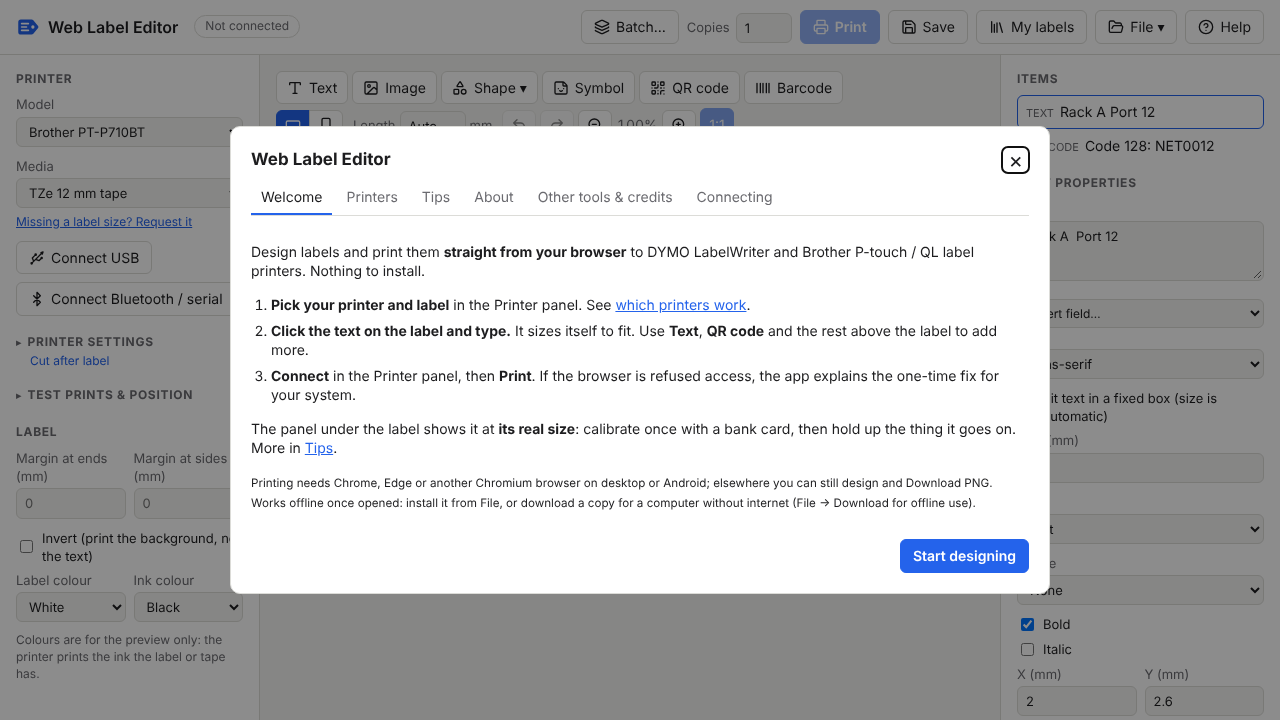
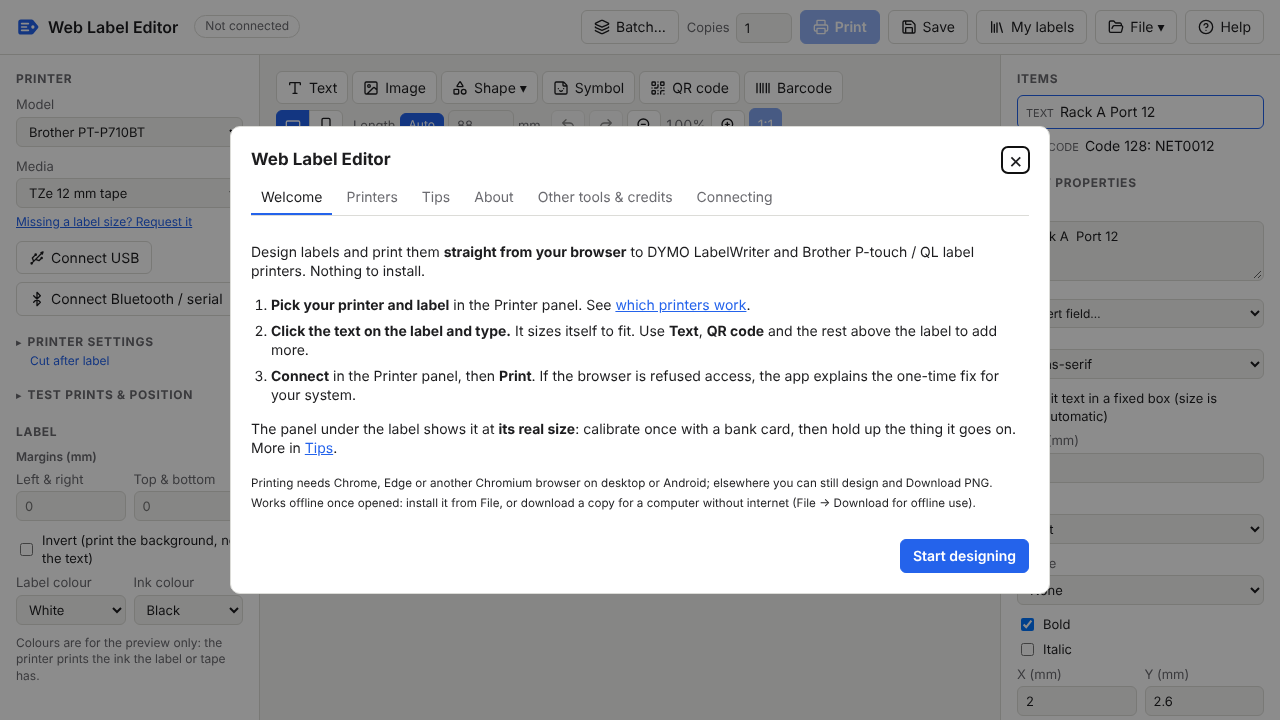
Auto toggles: length and item size, on the label and in the toolbar
- An Auto button beside the toolbar's Length box, and an "Auto length"
  chip by the label's end grip on rolls and tape.
- An "Auto size" chip by the selected item: text fits its box; a QR code,
  barcode, symbol or image fills the safe area across the label, centred,
  and follows it when the tape or margins change (items after it on a
  roll move along). Resizing by hand turns it off.
- Margins are labelled as seen (Left & right, Top & bottom); on Auto
  length the content keeps at least the margin from the start too, so
  the label grows at both ends.

Claude-Session: https://claude.ai/code/session_01YQFkThD3TEfZZoGyfdA6sY

diff --git a/src/app.js b/src/app.js
@@ -315,6 +315,11 @@ const printerMargins = (lane) => {
 };
 // The user's own margins (Label → Margins), from the label's edges: at the
 // ends (along the feed) and the sides (across). Saved with the design.
+// The margin boxes as seen: left & right are the ends in landscape, the
+// sides in portrait.
+const marginBoxes = () => (portrait()
+  ? [['margin-lr', 'sidesMm'], ['margin-tb', 'endsMm']]
+  : [['margin-lr', 'endsMm'], ['margin-tb', 'sidesMm']]);
 const userMargins = () => {
   const ends = Math.max(0, Number(design.margins?.endsMm) || 0);
   const sides = Math.max(0, Number(design.margins?.sidesMm) || 0);
@@ -499,10 +504,98 @@ function refresh({ props = false, setup = false } = {}) {
   });
 }
 
+// On Auto length, the content keeps at least the margin from the start:
+// anything closer moves along with the rest, and the label grows to fit
+// (the end gets the same space, see stripLength). Not while dragging, so
+// the other items stay put; it settles when the item is dropped.
+function keepStartMargin() {
+  const ends = userMargins().left;
+  if (!ends || drag || medium().lengthDots || design.length.mode === 'fixed' || !last) return false;
+  const along = last.portrait ? 'y' : 'x';
+  let start = Infinity;
+  last.bounds.forEach((b, i) => {
+    const slot = b && last.slots.find((sl) => sl.lane === last.lanes[i]);
+    if (slot) start = Math.min(start, (along === 'x' ? b.x - slot.ox : b.y - slot.oy) / last.dpmm);
+  });
+  if (!Number.isFinite(start) || start >= ends - 0.05) return false;
+  for (const it of design.items) it[along] = round1(it[along] + ends - start);
+  return true;
+}
+
+// Auto size for QR codes, symbols, images and barcodes (`fit`): filling
+// the safe area across the label, centred, and on a die-cut label no longer
+// than it either; a barcode's bars grow, not their width. Measured from the
+// last render, so it settles in a pass or two.
+const AUTO_SIZED = ['qr', 'icon', 'image', 'barcode'];
+function fitItems() {
+  if (!last || drag) return false;
+  let changed = false;
+  const page = pageSize();
+  const up = portrait();
+  design.items.forEach((it, i) => {
+    if (!it.fit || !AUTO_SIZED.includes(it.type)) return;
+    const b = last.bounds[i];
+    const slot = b && last.slots.find((sl) => sl.lane === last.lanes[i]);
+    if (!slot) return;
+    const mg = itemMargins(laneOf(it));
+    const room = up ? page.w - mg.left - mg.right : page.h - mg.top - mg.bottom;
+    const alongRoom = (up ? page.hFixed : page.wFixed) ? (up ? page.h - mg.top - mg.bottom : page.w - mg.left - mg.right) : Infinity;
+    const across = (up ? b.w : b.h) / last.dpmm;
+    const along = (up ? b.h : b.w) / last.dpmm;
+    let size = across;
+    if (it.type === 'barcode') {
+      const h = Math.max(1, round1(it.height + room - across));
+      if (Math.abs(h - it.height) > 0.2) {
+        size = across + h - it.height;
+        it.height = h;
+        changed = true;
+      }
+    } else {
+      // A QR code's size is an upper bound (it draws the largest whole dots
+      // per module that fit) and a symbol's is exact, so they take the room
+      // as their size; an image scales by its width.
+      const target = Math.min(room, alongRoom);
+      const f = it.type === 'image' ? Math.min(room / across, alongRoom / along) : target / it.size;
+      if (it.type === 'image' ? Math.abs(f - 1) > 0.003 : Math.abs(it.size - target) > 0.05) {
+        if (it.type === 'image') it.w = +(it.w * f).toFixed(2); else it.size = +target.toFixed(2);
+        changed = true;
+        // On a roll, what comes after it moves along with its new length
+        // instead of being covered.
+        if (alongRoom === Infinity) {
+          const end = (up ? b.y - slot.oy + b.h : b.x - slot.ox + b.w) / last.dpmm;
+          const k = up ? 'y' : 'x';
+          design.items.forEach((o, j) => {
+            const ob = last.bounds[j];
+            const os = ob && last.slots.find((sl) => sl.lane === last.lanes[j]);
+            if (o !== it && os && (up ? ob.y - os.oy : ob.x - os.ox) / last.dpmm >= end - 0.5) o[k] = round1(o[k] + along * (f - 1));
+          });
+        }
+        size = across * f;
+      }
+    }
+    // Centred across.
+    const key = up ? 'x' : 'y';
+    const start = (up ? b.x - slot.ox : b.y - slot.oy) / last.dpmm;
+    const want = (up ? mg.left : mg.top) + (room - size) / 2;
+    if (Math.abs(want - start) > 0.2) { it[key] = round1(it[key] + want - start); changed = true; }
+  });
+  return changed;
+}
+
 function draw() {
   const m = model();
   const med = medium();
-  last = renderView(viewDesign(), m, med, { adj: adjust(), onAssetLoad: () => refresh(), laneItems: batchLaneItems() });
+  const render = () => renderView(viewDesign(), m, med, { adj: adjust(), onAssetLoad: () => refresh(), laneItems: batchLaneItems() });
+  last = render();
+  let fitted = false;
+  for (let k = 0; k < 3; k++) {
+    const moved = fitItems();
+    fitted ||= moved;
+    if (!(keepStartMargin() || moved)) break;
+    last = render();
+  }
+  // The side panel shows the new sizes.
+  if (fitted && !drag) queueMicrotask(() => refresh({ props: true }));
   updateDataBar();
   syncFormatBar();
   const { display, dpmm, geo, slots, toDisplay } = last;
@@ -695,17 +788,24 @@ function draw() {
   }
   drawRulers(selBounds, feed);
   placeLaneButtons(scale);
+  placeChips(scale, cssW, cssH, selBounds);
 
   const lenMm = geo.length / dpmm;
   // The Length box in the toolbar (rolls only): Auto, or the fixed length.
   const lenBox = $('len-box');
+  const lenAuto = $('len-auto');
   // Die-cut labels: their own length, shown greyed so the box is always there.
   lenBox.disabled = !!med.lengthDots;
+  lenAuto.disabled = !!med.lengthDots;
+  lenAuto.setAttribute('aria-pressed', String(!med.lengthDots && design.length.mode !== 'fixed'));
+  lenAuto.title = med.lengthDots ? 'Die-cut labels have their own length'
+    : design.length.mode === 'fixed' ? 'Auto: make the label as long as its content (saves tape when the text varies)'
+      : 'Auto is on: the label is as long as its content. Type a length (or drag the label\'s end) for labels that must all match.';
   if (med.lengthDots) {
     lenBox.value = String(round1(lenMm));
     lenBox.title = `Die-cut labels are ${round1(lenMm)} mm long. On a continuous roll or tape, set Auto or a length here.`;
   } else if (document.activeElement !== lenBox) {
-    lenBox.value = design.length.mode === 'fixed' ? String(design.length.mm) : 'Auto';
+    lenBox.value = design.length.mode === 'fixed' ? String(design.length.mm) : String(Math.round(lenMm));
     lenBox.title = design.length.mode === 'fixed'
       ? 'A set length: every label the same, e.g. to match drawer fronts or a batch. Auto makes it as long as the content. '
         + 'You can also drag the label\'s end.'
@@ -927,6 +1027,39 @@ function placeLaneButtons(scale) {
     const s = last.slots[Number(b.dataset.lane)];
     b.style.left = `${canvas.offsetLeft + viewOrigin.x + (s.label.x + s.label.w) * scale - 4}px`;
     b.style.top = `${canvas.offsetTop + viewOrigin.y + s.label.y * scale + 4}px`;
+  }
+}
+
+// Small Auto toggles on the canvas: beside the end grip of a label on a
+// roll (Auto length), and beside the selected text's corner handle (Auto
+// size: the text fits its box).
+function placeChips(scale, cssW, cssH, selBounds) {
+  const canvas = $('canvas');
+  const x0 = canvas.offsetLeft + viewOrigin.x;
+  const y0 = canvas.offsetTop + viewOrigin.y;
+  const len = $('chip-len-auto');
+  len.hidden = !!medium().lengthDots;
+  if (!len.hidden) {
+    const auto = design.length.mode !== 'fixed';
+    len.setAttribute('aria-pressed', String(auto));
+    len.title = auto ? 'Auto length: as long as the content. Drag the label\'s end, or click, to set a length.'
+      : 'Click for Auto length: as long as the content';
+    // Just past the grip: below the right end, or right of the bottom end.
+    len.style.left = `${x0 + (last.portrait ? cssW / 2 - 36 : cssW - 40)}px`;
+    len.style.top = `${y0 + cssH + 8}px`;
+  }
+  const chip = $('chip-text-auto');
+  const item = selected();
+  chip.hidden = !((item?.type === 'text' || AUTO_SIZED.includes(item?.type)) && selBounds && !editing);
+  if (!chip.hidden) {
+    chip.setAttribute('aria-pressed', String(!!item.fit));
+    chip.title = item.type === 'text'
+      ? (item.fit ? 'Auto size: the text is sized to fit its box. Click to keep it at this size instead.'
+        : 'Click for Auto size: the text fills its box, growing or shrinking with it')
+      : (item.fit ? 'Auto size: fills the label\'s safe area across, and follows it when the label or margins change. Click to keep this size.'
+        : 'Click for Auto size: fill the label\'s safe area across, and follow it when the label or margins change');
+    chip.style.left = `${x0 + (selBounds.x + selBounds.w) * scale + 12}px`;
+    chip.style.top = `${y0 + (selBounds.y + selBounds.h) * scale - 8}px`;
   }
 }
 
@@ -1210,7 +1343,7 @@ function buildSetup() {
   buildCustomMedia();
   $('request-label').hidden = !!m.custom || medium().id === 'custom';
 
-  for (const [id, key] of [['margin-ends', 'endsMm'], ['margin-sides', 'sidesMm']]) {
+  for (const [id, key] of marginBoxes()) {
     if (document.activeElement !== $(id)) $(id).value = design.margins?.[key] || '';
   }
   $('invert').checked = !!design.invert;
@@ -3301,6 +3434,8 @@ function onPointerDown(e) {
   const handled = onHandle(e);
   if (handled) {
     undo.checkpoint();
+    // Resizing by hand ends Auto size (a text's box stays fitted).
+    if (handled.type !== 'text') handled.fit = false;
     drag = { item: handled, resize: true };
     $('canvas').setPointerCapture(e.pointerId);
     return;
@@ -3737,11 +3872,31 @@ function wire() {
     disconnect().then(autoConnect);
   };
   $('medium').onchange = (e) => { keepFitting(() => selectMedium(e.target.value)); refresh({ setup: true }); };
-  for (const [id, key] of [['margin-ends', 'endsMm'], ['margin-sides', 'sidesMm']]) {
-    $(id).oninput = (e) => { design.margins = { ...design.margins, [key]: Math.max(0, parseFloat(e.target.value) || 0) }; refresh(); };
+  for (const id of ['margin-lr', 'margin-tb']) {
+    $(id).oninput = (e) => {
+      const key = new Map(marginBoxes()).get(id);
+      design.margins = { ...design.margins, [key]: Math.max(0, parseFloat(e.target.value) || 0) };
+      refresh();
+    };
     $(id).onchange = () => undo.checkpoint();
   }
   $('len-box').onfocus = (e) => e.target.select();
+  $('chip-len-auto').onclick = () => $('len-auto').click();
+  $('chip-text-auto').onclick = () => {
+    const it = selected();
+    if (!it) return;
+    if (it.type === 'text') toggleFit(it, !it.fit);
+    else if (AUTO_SIZED.includes(it.type)) it.fit = !it.fit;
+    else return;
+    undo.checkpoint();
+    refresh({ props: true });
+  };
+  $('len-auto').onclick = () => {
+    if (design.length.mode === 'fixed') design.length.mode = 'auto';
+    else design.length = { ...design.length, mode: 'fixed', mm: Math.round(last.geo.length / last.dpmm) };
+    undo.checkpoint();
+    refresh({ setup: true });
+  };
   $('len-box').onchange = (e) => {
     const v = e.target.value;
     if (/^\s*a/i.test(v)) design.length.mode = 'auto';

diff --git a/index.html b/index.html
@@ -81,9 +81,10 @@
       </details>
 
       <h2>Label</h2>
-      <div class="grid2" title="Space to keep clear, from the label's edges. A guide shows it, new and filled items keep inside it, and on Auto length the label leaves at least this much after the content.">
-        <label>Margin at ends (mm) <input id="margin-ends" type="number" min="0" step="0.5" placeholder="0"></label>
-        <label>Margin at sides (mm) <input id="margin-sides" type="number" min="0" step="0.5" placeholder="0"></label>
+      <h3 class="sub">Margins (mm)</h3>
+      <div class="grid2" title="Space to keep clear, from the label's edges, as seen in the editor. A guide shows it, and new and filled items keep inside it. On Auto length the label grows to keep it at both ends.">
+        <label>Left &amp; right <input id="margin-lr" type="number" min="0" step="0.5" placeholder="0"></label>
+        <label>Top &amp; bottom <input id="margin-tb" type="number" min="0" step="0.5" placeholder="0"></label>
       </div>
       <label class="inline"><input id="invert" type="checkbox"> Invert (print the background, not the text)</label>
       <div class="grid2" title="Labels and tapes come in colours, some clear, some with coloured ink. The printer prints in the ink the label or tape has: this only changes the preview.">
@@ -117,8 +118,9 @@
           <button class="icon" data-orient="landscape" title="Landscape: the label lying along the feed" aria-label="Landscape" data-icon="landscape"></button>
           <button class="icon" data-orient="portrait" title="Portrait: the label standing upright" aria-label="Portrait" data-icon="portrait"></button>
         </span>
-        <label id="len-quick" class="len-quick">Length <input id="len-box" type="text" inputmode="decimal" list="len-sizes" aria-label="Label length (mm), or Auto to fit the content"> mm</label>
-        <datalist id="len-sizes"><option value="Auto"><option value="25"><option value="40"><option value="50"><option value="75"><option value="100"><option value="150"></datalist>
+        <span id="len-quick" class="len-quick">Length
+          <button id="len-auto" type="button" class="len-auto" aria-pressed="true">Auto</button>
+          <input id="len-box" type="text" inputmode="decimal" aria-label="Label length (mm)"> mm</span>
         <button id="undo" class="icon" aria-label="Undo" title="Undo (Ctrl+Z)" data-icon="undo"></button>
         <button id="redo" class="icon" aria-label="Redo" title="Redo (Ctrl+Shift+Z)" data-icon="redo"></button>
         <button id="zoom-out" class="icon" aria-label="Zoom out" title="Zoom out" data-icon="zoomOut"></button>
@@ -136,6 +138,8 @@
           <canvas id="canvas" tabindex="0" aria-label="Label preview"></canvas>
         </div>
         <div id="lane-buttons"></div>
+        <button id="chip-len-auto" type="button" class="canvas-chip" hidden>Auto length</button>
+        <button id="chip-text-auto" type="button" class="canvas-chip" hidden>Auto size</button>
       </div>
       <figure id="actual-wrap" class="actual-wrap" hidden>
         <figcaption><span id="actual-title">Actual size</span>

diff --git a/src/about.js b/src/about.js
@@ -148,8 +148,10 @@ function tips() {
       li(b('Length'), ' (toolbar, on rolls and tape): Auto makes the label as long as its content, with the same space at '
         + 'both ends, which saves tape when the text varies. Type a length, or drag the label\'s right end, when labels '
         + 'must all match (drawer fronts, a batch).'),
-      li(b('Margin at ends'), ' and ', b('Margin at sides'), ' (under Label) keep space clear from the edges: the guide, ',
-        b('Fill safe area'), ' and new items keep inside them.'),
+      li(b('Margins'), ' (under Label: left & right, top & bottom) keep space clear from the edges: the guide, ',
+        b('Fill safe area'), ' and new items keep inside them, and an Auto-length label grows to keep them.'),
+      li('The small ', b('Auto length'), ' and ', b('Auto size'), ' buttons on the label switch those on and off. A QR code, '
+        + 'barcode, symbol or image on Auto size fills the label across and follows it when the tape or margins change.'),
       li(b('Rulers'), ' measure from the label\'s starting edge and from each label\'s top, and mark the selected item.')),
     el('h3', { textContent: 'Batches: data, numbers and dates' }),
     el('ul', {},

diff --git a/style.css b/style.css
@@ -270,6 +270,16 @@ dialog.screen .row input[type="range"] { flex: 1; }
   border-radius: 999px;
   box-shadow: 0 1px 3px rgba(0, 0, 0, .25);
 }
+/* Small toggles beside the label's end grip and the selected text's handle. */
+.canvas-chip {
+  position: absolute;
+  z-index: 1;
+  padding: 1px 7px;
+  font-size: 11px;
+  border-radius: 999px;
+  box-shadow: 0 1px 3px rgba(0, 0, 0, .25);
+}
+.canvas-chip[aria-pressed="true"] { background: var(--accent); color: var(--accent-text); border-color: var(--accent); }
 /* In-place text editor, laid over the item on the label. */
 textarea.inplace {
   position: absolute;
@@ -421,3 +431,6 @@ a.button { display: inline-block; text-decoration: none; }
 #color-note { font-size: 12px; color: var(--muted); margin: 0 0 8px; }
 .len-quick { display: inline-flex; align-items: center; gap: 4px; font-size: 13px; color: var(--muted); margin: 0 6px; }
 .len-quick input { width: 66px; }
+.len-auto { padding: 3px 8px; font-size: 12px; }
+.len-auto[aria-pressed="true"] { background: var(--accent); color: var(--accent-text); border-color: var(--accent); }
+aside h3.sub { font-size: 12px; font-weight: 600; color: var(--muted); margin: 8px 0 4px; }

diff --git a/README.md b/README.md
@@ -256,10 +256,16 @@ The app has its own welcome page and **Help** with the same information.
   before it: saves tape when the text varies) or a length in mm, for labels
   that must all match; type one, or drag the label's end as in P-touch
   Editor. On die-cut labels it shows their own length.
-- **Your own margins:** *Margin at ends* and *Margin at sides* (under Label)
-  keep space clear from the label's edges, on die-cut labels and tape alike.
-  The safe-area guide, *Fill safe area* and new items keep inside them, and
-  an Auto-length label leaves at least that much after the content.
+- **Auto buttons on the label:** *Auto length* beside the end grip on rolls
+  and tape, and *Auto size* beside the selected item. For text, Auto size
+  fits it to its box; a QR code, barcode, symbol or image fills the safe
+  area across the label and follows it when the tape, label or margins
+  change (on a roll, what comes after it moves along).
+- **Your own margins:** *Left & right* and *Top & bottom* (Margins, under
+  Label) keep space clear from the label's edges as seen in the editor, on
+  die-cut labels and tape alike. The safe-area guide, *Fill safe area*, Auto
+  size and new items keep inside them, and an Auto-length label grows to
+  keep them at both ends.
 - **Portrait** (▭ ▯ in the toolbar):
   design the label standing upright, as in DYMO Label; it is turned for
   printing. On tape and continuous rolls the label grows downwards with the
